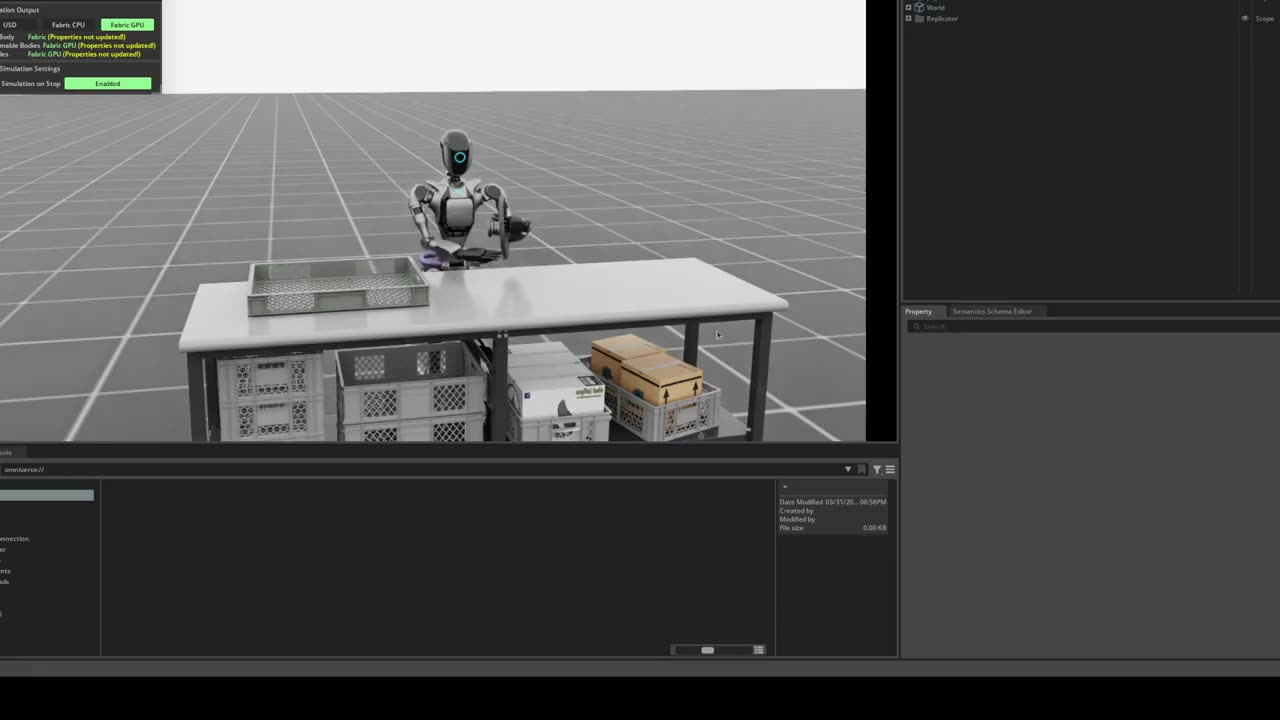
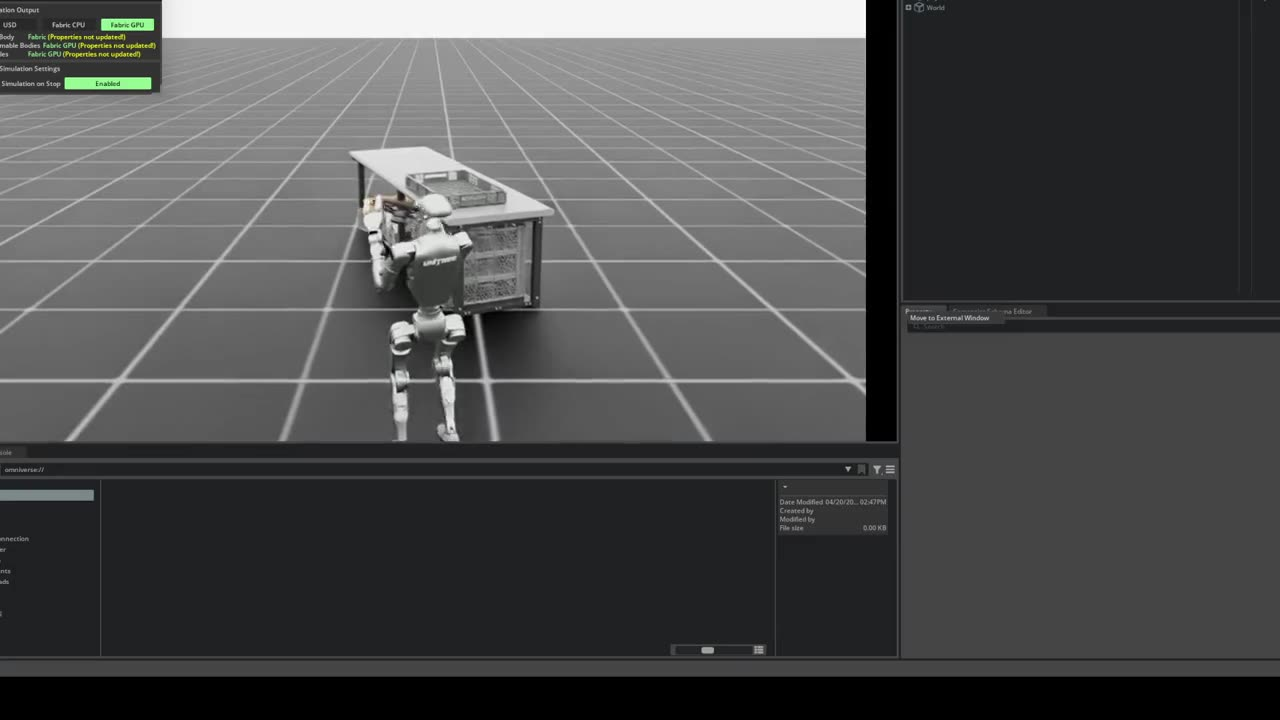
Remove flame diverter card (no media); replace GR00T N1.7 video with correct footage

diff --git a/index.html b/index.html
@@ -282,21 +282,6 @@
       </div>
     </div>
 
-    <div class="project nomedia">
-      <div>
-        <h3>Rocket Engine Flame Diverter</h3>
-        <div class="meta">Team Lead &middot; TAMU Rocket Engine Design Team &middot; 2025</div>
-        <p>
-          Led the sub-team designing the plume-deflection structure for static fires of an
-          <strong>1,860&nbsp;lbf liquid bipropellant rocket engine</strong> — transient thermal and structural
-          FEA in ANSYS to drive material selection and geometry for full-duration hot fires.
-        </p>
-        <div class="tags">
-          <span>ANSYS</span><span>Thermal FEA</span><span>Structural FEA</span><span>Leadership</span>
-        </div>
-      </div>
-    </div>
-
     <div class="project flip">
       <div>
         <h3>Wearable HFCWO Medical Device</h3>